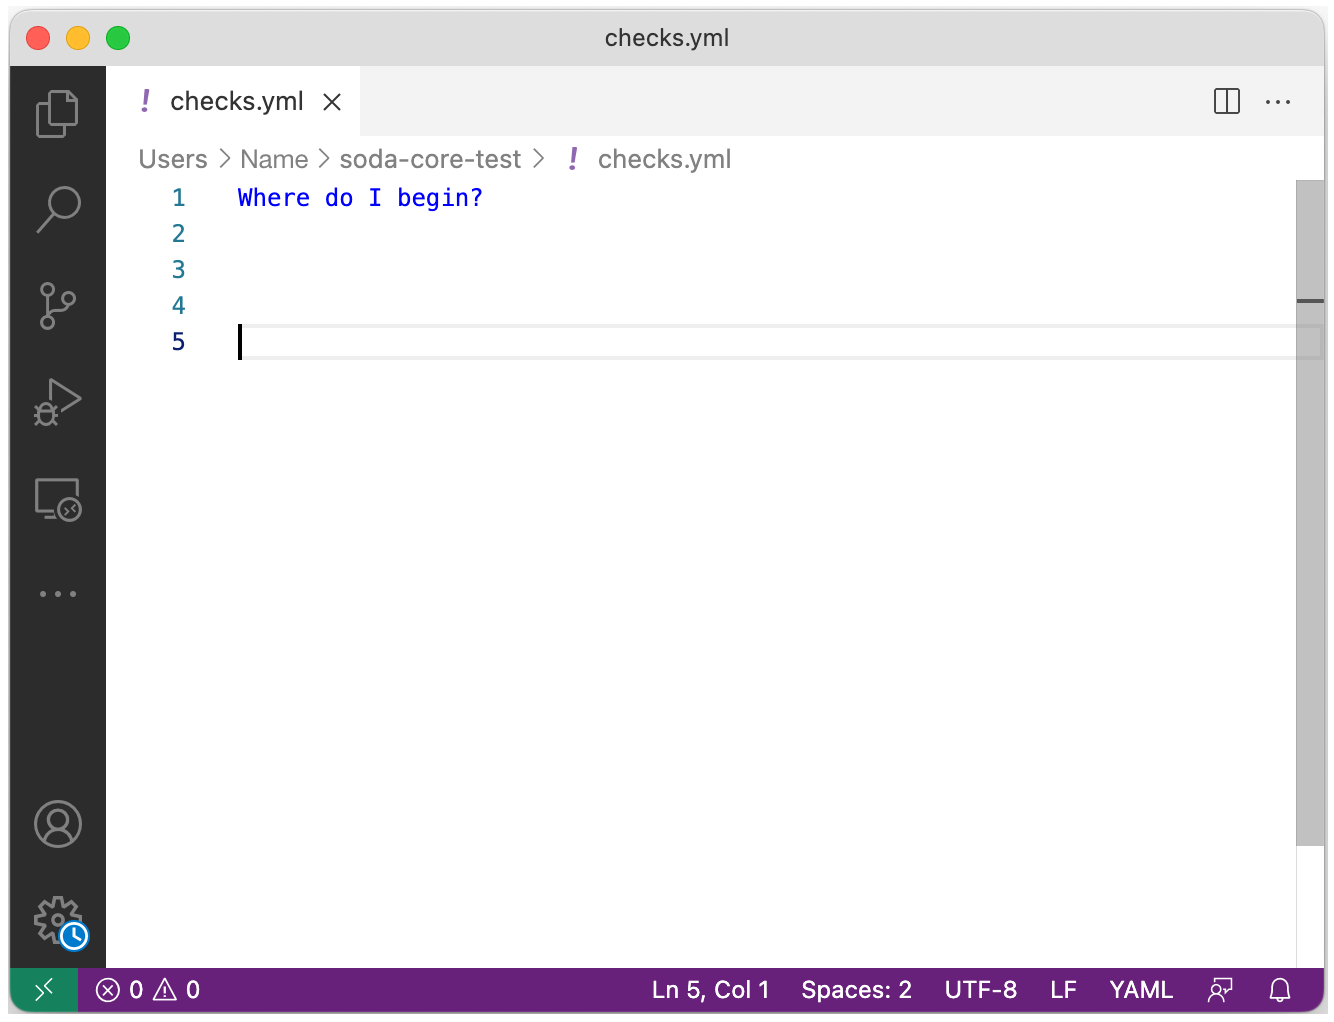
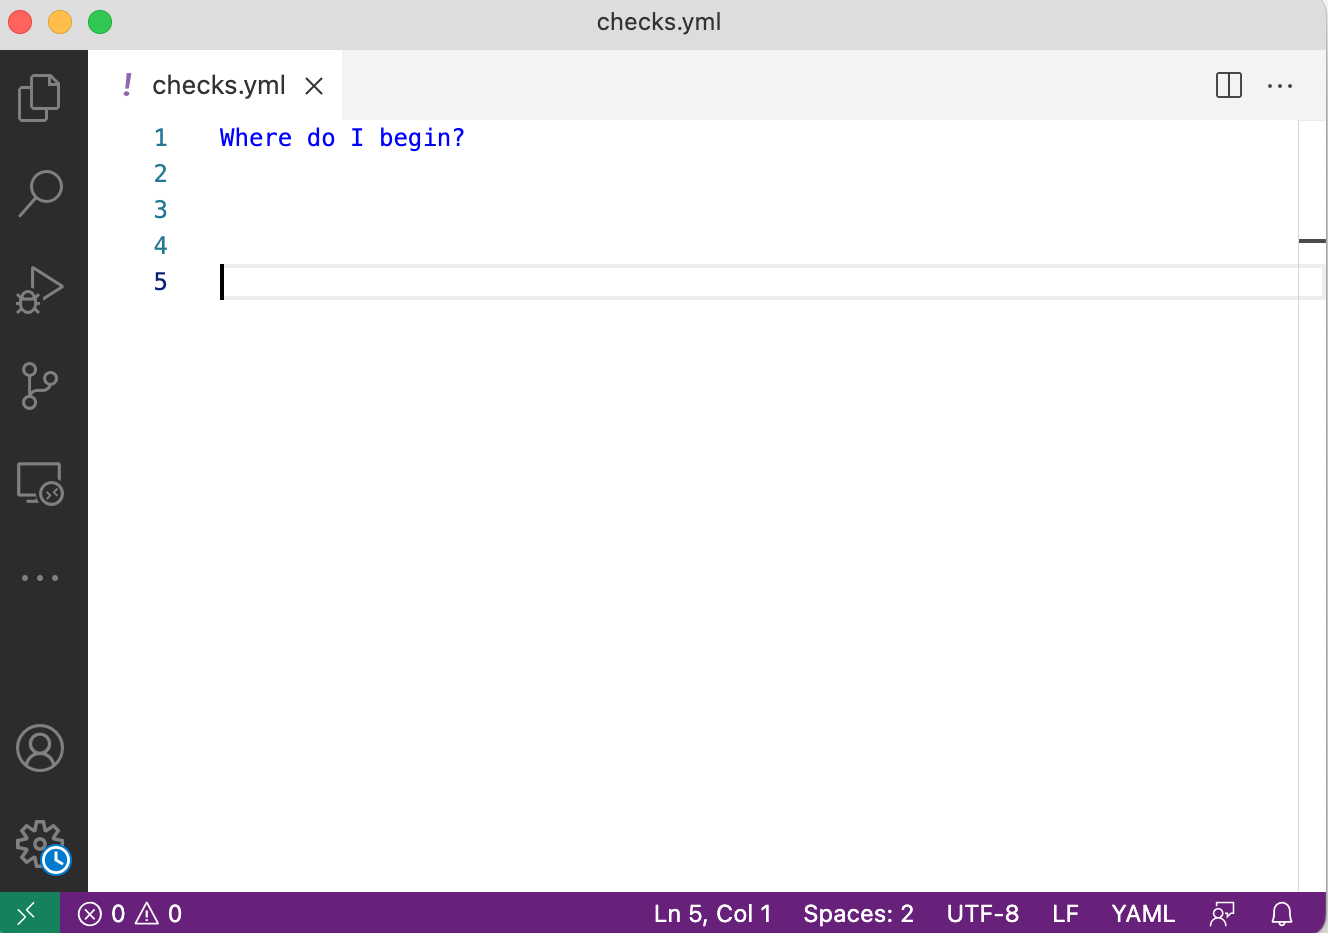
Updated SodaCL tutorial

diff --git a/soda/quick-start-sodacl.md b/soda/quick-start-sodacl.md
@@ -10,9 +10,9 @@ parent: SodaCL
 
 If you are staring at a blank YAML file wondering what SodaCL checks to write to surface data quality issues, this quick start tutorial is for you. 
 
-![blank-page](/assets/images/blank-page.png){:height="600px" width="600px"}
+![blank-page](/assets/images/blank-page.png){:height="500px" width="500px"}
 
-[Soda Core and SodaCL: In brief](#soda-core-and-sodacl-in-brief) <br />
+[SodaCL: In brief](#sodacl-in-brief) <br />
 [About this tutorial](#about-this-tutorial) <br />
 [Tutorial prerequisites](#tutorial-prerequisites) <br />
 [Row count and cross checks](#row-count-and-cross-checks) <br />
@@ -26,11 +26,11 @@ If you are staring at a blank YAML file wondering what SodaCL checks to write to
 <br />
 
 
-## Soda Core and SodaCL: In brief
+## SodaCL: In brief
 
-**Soda Checks Language (SodaCL)** is a YAML-based, domain-specific language for data reliability. Used in conjunction with Soda Core, Soda’s open-source, command-line tool, you use SodaCL to write checks for data quality, then use Soda Core to scan the data in your data source and execute those checks.
+**Soda Checks Language (SodaCL)** is a YAML-based, domain-specific language for data reliability. Used in conjunction with the Soda platform, you use SodaCL to write checks for data quality, then run a scan of the data in your data source to execute those checks.
 
-After installing Soda Core, you connect Soda Core to your data source (Snowflake, BigQuery, etc.) by defining connection details such as host, username, and password, in a **configuration YAML** file (except SparkDF, which is [special]({% link soda/connect-spark.md %})). Then, you define your Soda Checks for data quality in a **checks YAML** file. 
+After installing Soda, you connect it to your data source (Snowflake, BigQuery, etc.) by defining connection details such as host, username, and password, in a **configuration YAML** file (except SparkDF, which is [special]({% link soda/connect-spark.md %})). Then, you define your Soda checks for data quality in a **checks YAML** file. 
 
 A **Soda Check** is a test that Soda Core performs when it scans a dataset in your data source. When you use Soda Core to run a scan on data in your data source, you reference both the configuration and checks YAML files in the scan command.
 
@@ -39,7 +39,7 @@ A **Soda scan** executes the checks you defined in the checks YAML file and retu
 
 ## About this tutorial
 
-With over 25 built-in SodaCL checks and metrics to choose from, it can be hard to know where to begin. This tutorial offers suggestions for some basic checks you can write to begin surfacing missing, invalid, unexpected data in your datasets. 
+With over <a href="https://docs.soda.io/soda-cl/metrics-and-checks.html#list-of-sodacl-metrics-and-checks" target="_blank">25 built-in SodaCL checks and metrics</a> to choose from, it can be hard to know where to begin. This tutorial offers suggestions for some basic checks you can write to begin surfacing missing, invalid, unexpected data in your datasets. 
 
 All the example checks in this tutorial use placeholder values for dataset and column name identifiers, but you can copy+paste the examples into your own checks YAML file and adjust the details to correspond to your own data.
 
@@ -48,8 +48,7 @@ You do not need to follow the tutorial sequentially.
 
 ## Tutorial prerequisites
 
-* You have completed the Take a sip of Soda quick start guide <br /> OR <br /> you have followed the instructions to [install]({% link soda-core/installation.md %}) and [configure]({% link soda-core/configuration.md %}) Soda Core on your own. 
-* You have installed a code editor such as Sublime or Visual Studio Code.
+* You have completed the [Take a sip of Soda]({% link soda/quick-start-sip.md %}) tutorial <br /> OR <br /> you have followed the instructions to [install]({% link soda-core/installation.md %}), then [configure]({% link soda-core/configuration.md %}) Soda on your own. 
 * You have created a new YAML file in your code editor and named it `checks.yml`.
 * (Optional) You have read the first two sections in [Metrics and checks]({% link soda-cl/metrics-and-checks.md %}) as a primer for SodaCL.
 
@@ -155,7 +154,7 @@ soda scan -d datasource_name -c configuration.yml checks.yml
 
 If your dataset contains a column that stores timestamp information, you can configure a freshness check. This type of check is useful when, for example, you need to validate that the data feeding a weekly report or dashboard is not stale. Timely data is reliable data!
 
-In this example, the check fails if the most-recently added row (in other words, the "youngest" row) in the `timestamp_column_name` column is more than 24 hours old.
+In this example, the check fails if the most-recently added row (in other words, the youngest row) in the `timestamp_column_name` column is more than 24 hours old.
 {% include code-header.html %}
 ```yaml
 # Check that data in dataset is less than one day old
@@ -192,7 +191,7 @@ The following example fails if, during a scan, Soda discovers that more than 5% 
 ```yaml
 # Check an email column that all values are in email format
 checks for dataset_name:
-  - invalid_percent(email_column_name) > 5:
+  - invalid_percent(email_column_name) > 5%:
       valid format: email
 ```
 
@@ -254,7 +253,7 @@ soda scan -d datasource_name -c configuration.yml checks.yml
 
 To eliminate the frustration of the silently evolving dataset schema, use schema checks with alert configurations to notify you when column changes occur.
 
-If you have set up a Soda Cloud account and connected it to Soda Core, you can use a catch-all schema check that results in a warning whenever a Soda scan reveals that a column has been added, removed, moved within the context of an index, or changed data type relative to the results of the previous scan. 
+If you have set up a Soda platform account, you can use a catch-all schema check that results in a warning whenever a Soda scan reveals that a column has been added, removed, moved within the context of an index, or changed data type relative to the results of the previous scan. 
 {% include code-header.html %}
 ```yaml
 # Requires a Soda Cloud account
@@ -331,7 +330,7 @@ checks for corp_value:
 
 * Learn more about [SodaCL metrics and checks]({% link soda-cl/metrics-and-checks.md %}) in general.
 * Read about the [Optional configurations]({% link soda-cl/optional-config.md %}) you can apply to SodaCL checks.
-* Connect Soda Core to Soda Cloud to vastly enrich the data quality monitoring experience.
+* [Take a sip of Soda]({% link soda/quick-start-sip.md %}) to run a simple data quality scan on example data.
 * Need help? Join the <a href="https://community.soda.io/slack" target="_blank"> Soda community on Slack</a>.
 <br />
 
